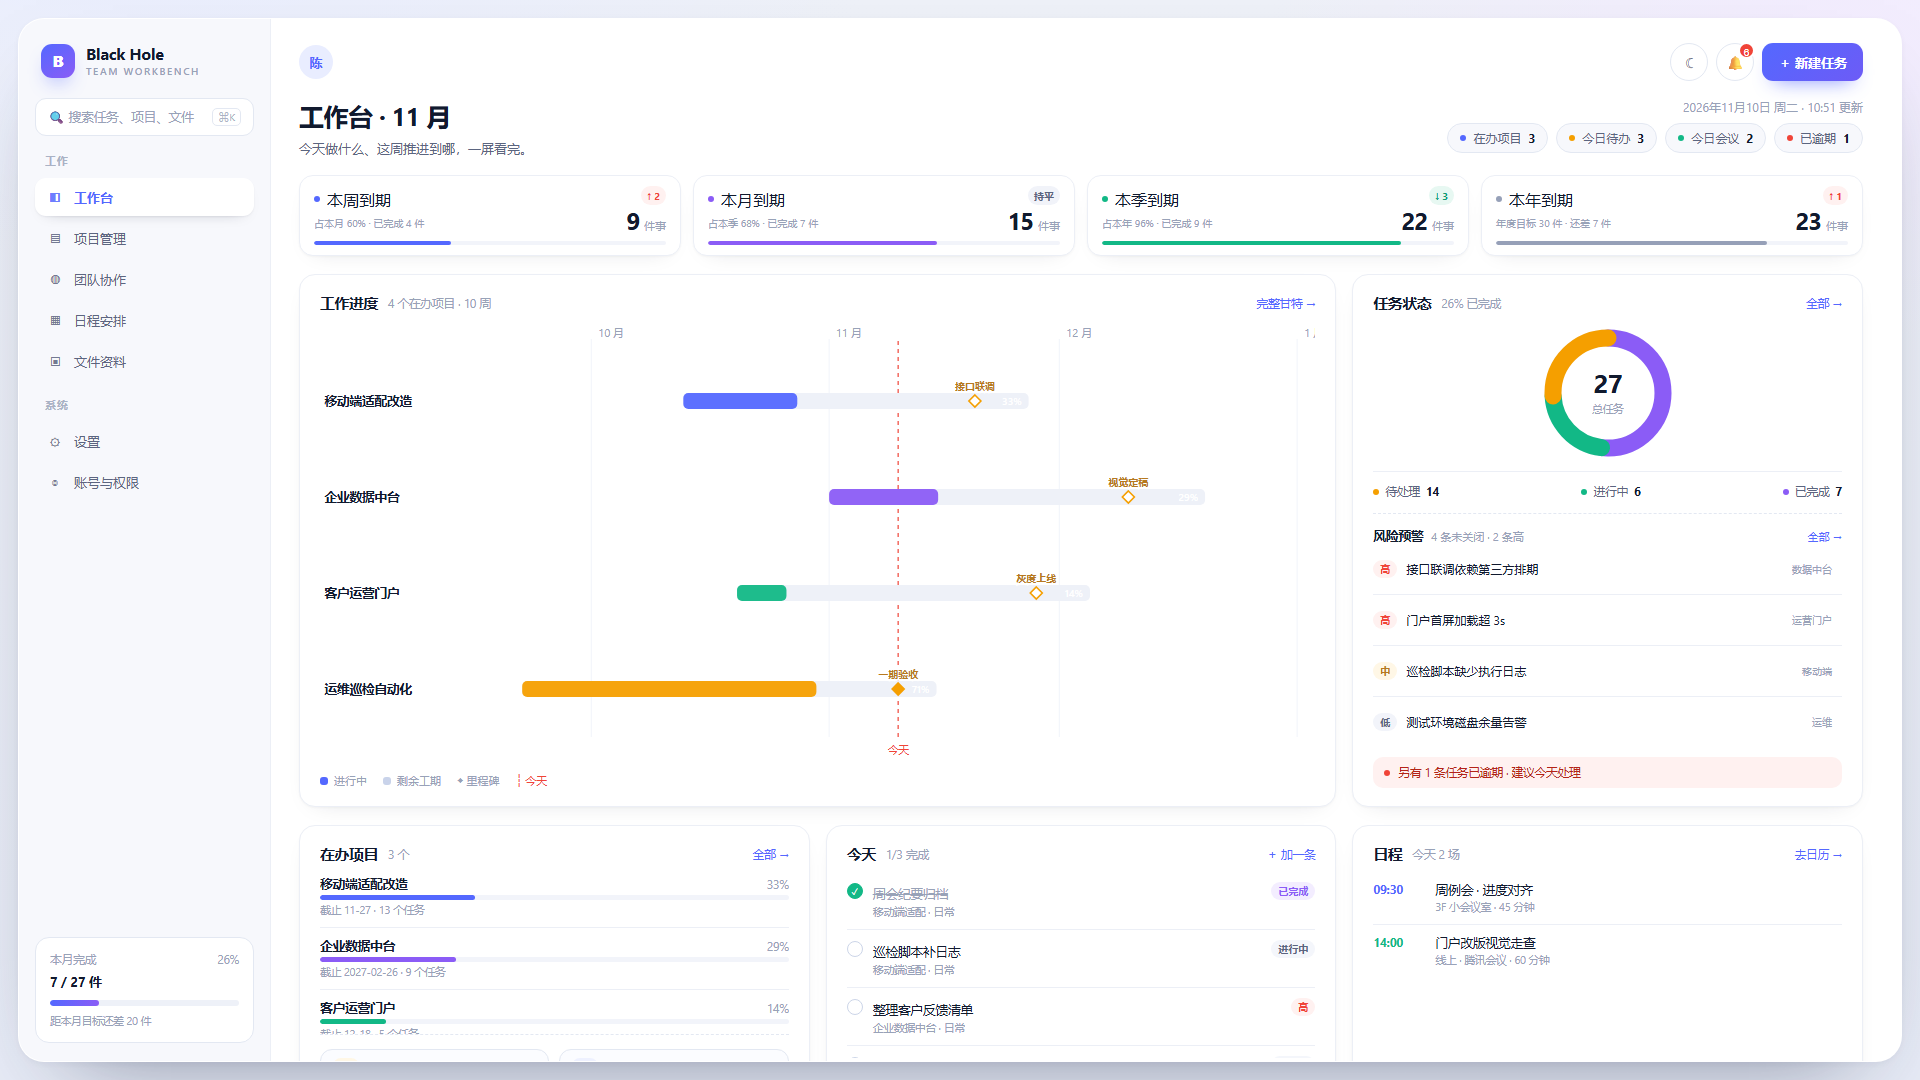
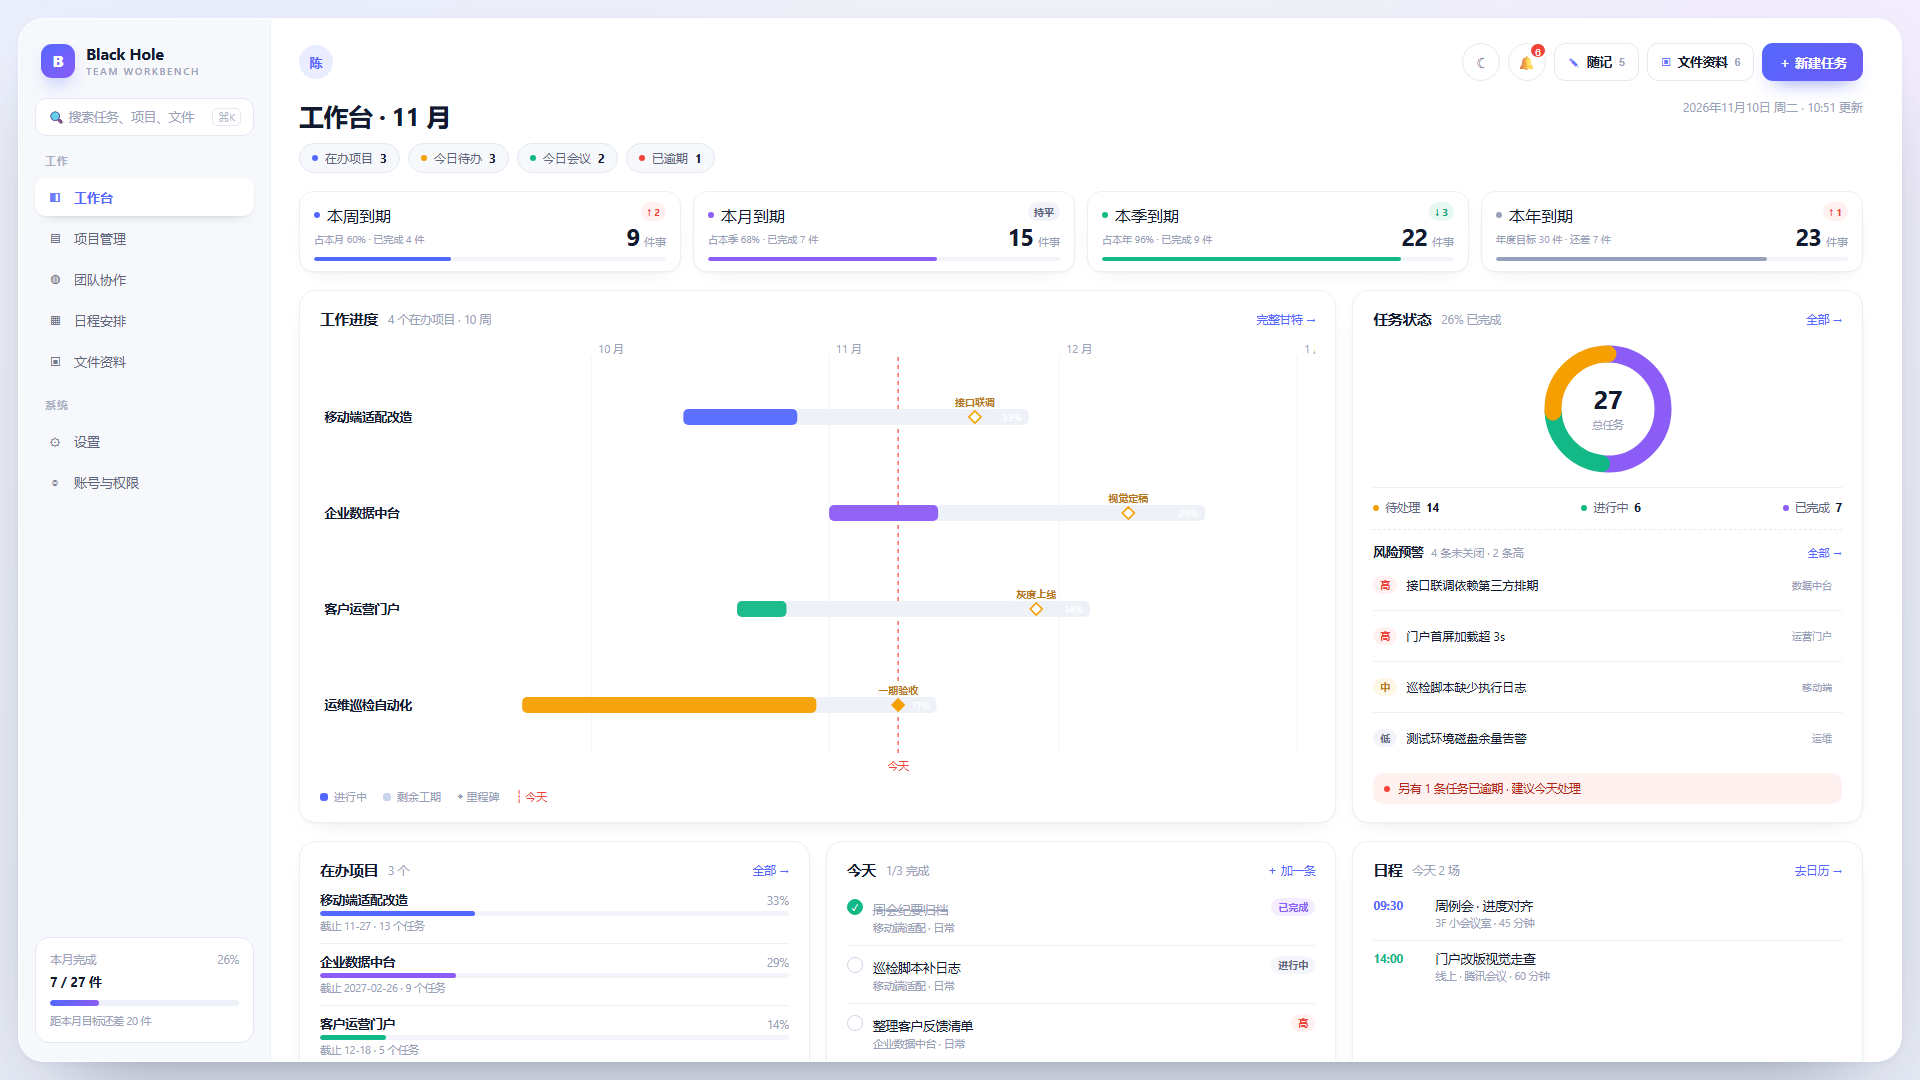
docs(demo): 四个胶囊移到标题下方，随记/文件资料迁到顶栏
- 页头：标题下面直接一排胶囊（在办项目/今日待办/今日会议/已逾期），
  右侧只留日期；去掉原副标题（信息已被胶囊覆盖）
- 顶栏：新增两个幽灵按钮「随记 5」「文件资料 6」，与「＋ 新建任务」并排；
  随记按钮同样打开栈签弹层
- 在办项目卡：去掉底部的随记/文件入口（已迁走），列表高度 168 → 206 补足
- 修：入口迁走后 openNotes 为空导致 JS 报错 → 两个入口都用存在性判断挂事件

diff --git a/docs/demo/workbench-demo.html b/docs/demo/workbench-demo.html
@@ -70,14 +70,20 @@
   .tool-btn{width:38px;height:38px;border-radius:50%;border:1px solid var(--line-2);background:#fff;display:grid;place-items:center;font-size:14px;color:var(--text-2);position:relative;cursor:pointer}
   .tool-btn:hover{border-color:#cfd8ee;color:var(--brand)}
   .dot-badge{position:absolute;top:-2px;right:-2px;min-width:17px;height:17px;border-radius:99px;background:var(--red);color:#fff;font-size:10px;line-height:17px;text-align:center;padding:0 4px;border:2px solid #fff}
+  .btn-ghost{display:inline-flex;align-items:center;gap:7px;height:38px;padding:0 13px;border-radius:11px;border:1px solid var(--line-2);
+    background:#fff;color:var(--text);font-size:12.5px;font-weight:550;cursor:pointer;transition:.15s}
+  .btn-ghost:hover{border-color:#c7d2ff;color:var(--brand);box-shadow:0 6px 16px -12px rgba(84,104,255,.6)}
+  .btn-ghost .gi{font-size:12px;color:var(--brand);opacity:.9}
+  .btn-ghost .gn{font-size:10.5px;color:var(--muted);font-weight:700}
   .btn-primary{height:38px;padding:0 16px;border-radius:11px;border:0;background:linear-gradient(140deg,#5468ff,#6d5bf6);color:#fff;font-size:13px;font-weight:600;cursor:pointer;box-shadow:0 10px 20px -12px rgba(84,104,255,.9)}
 
   .page-head{display:flex;align-items:flex-start;gap:16px}
+  .page-head-main{display:flex;flex-direction:column;gap:10px;min-width:0}
   .page-head h2{margin:0;font-size:25px;font-weight:750;letter-spacing:-.5px}
-  .page-head p{margin:7px 0 0;font-size:13px;color:var(--text-2)}
+  .page-head .chips{display:flex;gap:8px;flex-wrap:wrap}
   .head-right{margin-left:auto;text-align:right}
   .head-right .date{font-size:12px;color:var(--muted)}
-  .head-right .chips{display:flex;gap:8px;justify-content:flex-end;margin-top:8px}
+  
   .chip{display:inline-flex;align-items:center;gap:7px;height:30px;padding:0 12px;border-radius:99px;background:#f7f8fc;border:1px solid var(--line-2);font-size:12px;color:var(--text-2)}
   .chip b{color:var(--text);font-weight:700}
   .sp{width:6px;height:6px;border-radius:50%}
@@ -148,7 +154,7 @@
 
   /* 在办项目（含随记/文件入口） */
   .proj-card{grid-column:span 4;display:flex;flex-direction:column}
-  .pj-list{max-height:168px}
+  .pj-list{max-height:206px}
   .pj{display:grid;grid-template-columns:minmax(0,1fr) auto;gap:3px 10px;padding:10px 0;align-items:center}
   .pj + .pj{border-top:1px solid var(--line)}
   .pj .nm{font-size:12.5px;font-weight:560;overflow:hidden;text-overflow:ellipsis;white-space:nowrap}
@@ -297,23 +303,24 @@
       <div class="top-tools">
         <button class="tool-btn" title="主题">☾</button>
         <button class="tool-btn" title="通知">🔔<span class="dot-badge">6</span></button>
+        <button class="btn-ghost" id="openNotesTop"><span class="gi">✎</span>随记<span class="gn">5</span></button>
+        <button class="btn-ghost" onclick="alert('跳转到文件资料页（demo 占位）')"><span class="gi">▣</span>文件资料<span class="gn">6</span></button>
         <button class="btn-primary">＋ 新建任务</button>
       </div>
     </div>
 
     <div class="page-head">
-      <div>
+      <div class="page-head-main">
         <h2>工作台 · 11 月</h2>
-        <p>今天做什么、这周推进到哪，一屏看完。</p>
-      </div>
-      <div class="head-right">
-        <div class="date">2026年11月10日 周二 · 10:51 更新</div>
         <div class="chips">
           <span class="chip"><i class="sp" style="background:#5468ff"></i>在办项目 <b>3</b></span>
           <span class="chip"><i class="sp" style="background:#f59f00"></i>今日待办 <b>3</b></span>
           <span class="chip"><i class="sp" style="background:#12b886"></i>今日会议 <b>2</b></span>
           <span class="chip"><i class="sp" style="background:#f04438"></i>已逾期 <b>1</b></span>
         </div>
+      </div>
+      <div class="head-right">
+        <div class="date">2026年11月10日 周二 · 10:51 更新</div>
       </div>
     </div>
 
@@ -422,14 +429,6 @@
           <div class="pj"><span class="nm">移动端适配改造</span><span class="pc">33%</span><div class="bar"><i style="width:33%;background:#5468ff"></i></div><span class="due">截止 11-27 · 13 个任务</span></div>
           <div class="pj"><span class="nm">企业数据中台</span><span class="pc">29%</span><div class="bar"><i style="width:29%;background:#8b5cf6"></i></div><span class="due">截止 2027-02-26 · 9 个任务</span></div>
           <div class="pj"><span class="nm">客户运营门户</span><span class="pc">14%</span><div class="bar"><i style="width:14%;background:#12b886"></i></div><span class="due">截止 12-18 · 5 个任务</span></div>
-        </div>
-        <div class="quick">
-          <button class="qbtn" id="openNotes">
-            <span class="ic" style="background:#fff7e6;color:#f59f00">✎</span>随记<span class="n">5</span>
-          </button>
-          <button class="qbtn" onclick="alert('跳转到文件资料页（demo 占位）')">
-            <span class="ic" style="background:#eef1ff;color:#5468ff">▣</span>文件资料<span class="n">6</span>
-          </button>
         </div>
       </div>
 
@@ -631,7 +630,11 @@
 
 /* ---------- 便签栈 ---------- */
 const overlay = document.getElementById('notesOverlay');
-document.getElementById('openNotes').addEventListener('click', () => overlay.classList.add('on'));
+// 随记入口：卡片里的按钮已迁到顶栏，这里两个都挂（缺一个也不报错）
+['openNotes', 'openNotesTop'].forEach(id => {
+  const btn = document.getElementById(id);
+  if (btn) btn.addEventListener('click', () => overlay.classList.add('on'));
+});
 document.getElementById('closeNotes').addEventListener('click', () => overlay.classList.remove('on'));
 overlay.addEventListener('click', e => { if (e.target === overlay) overlay.classList.remove('on'); });
 
